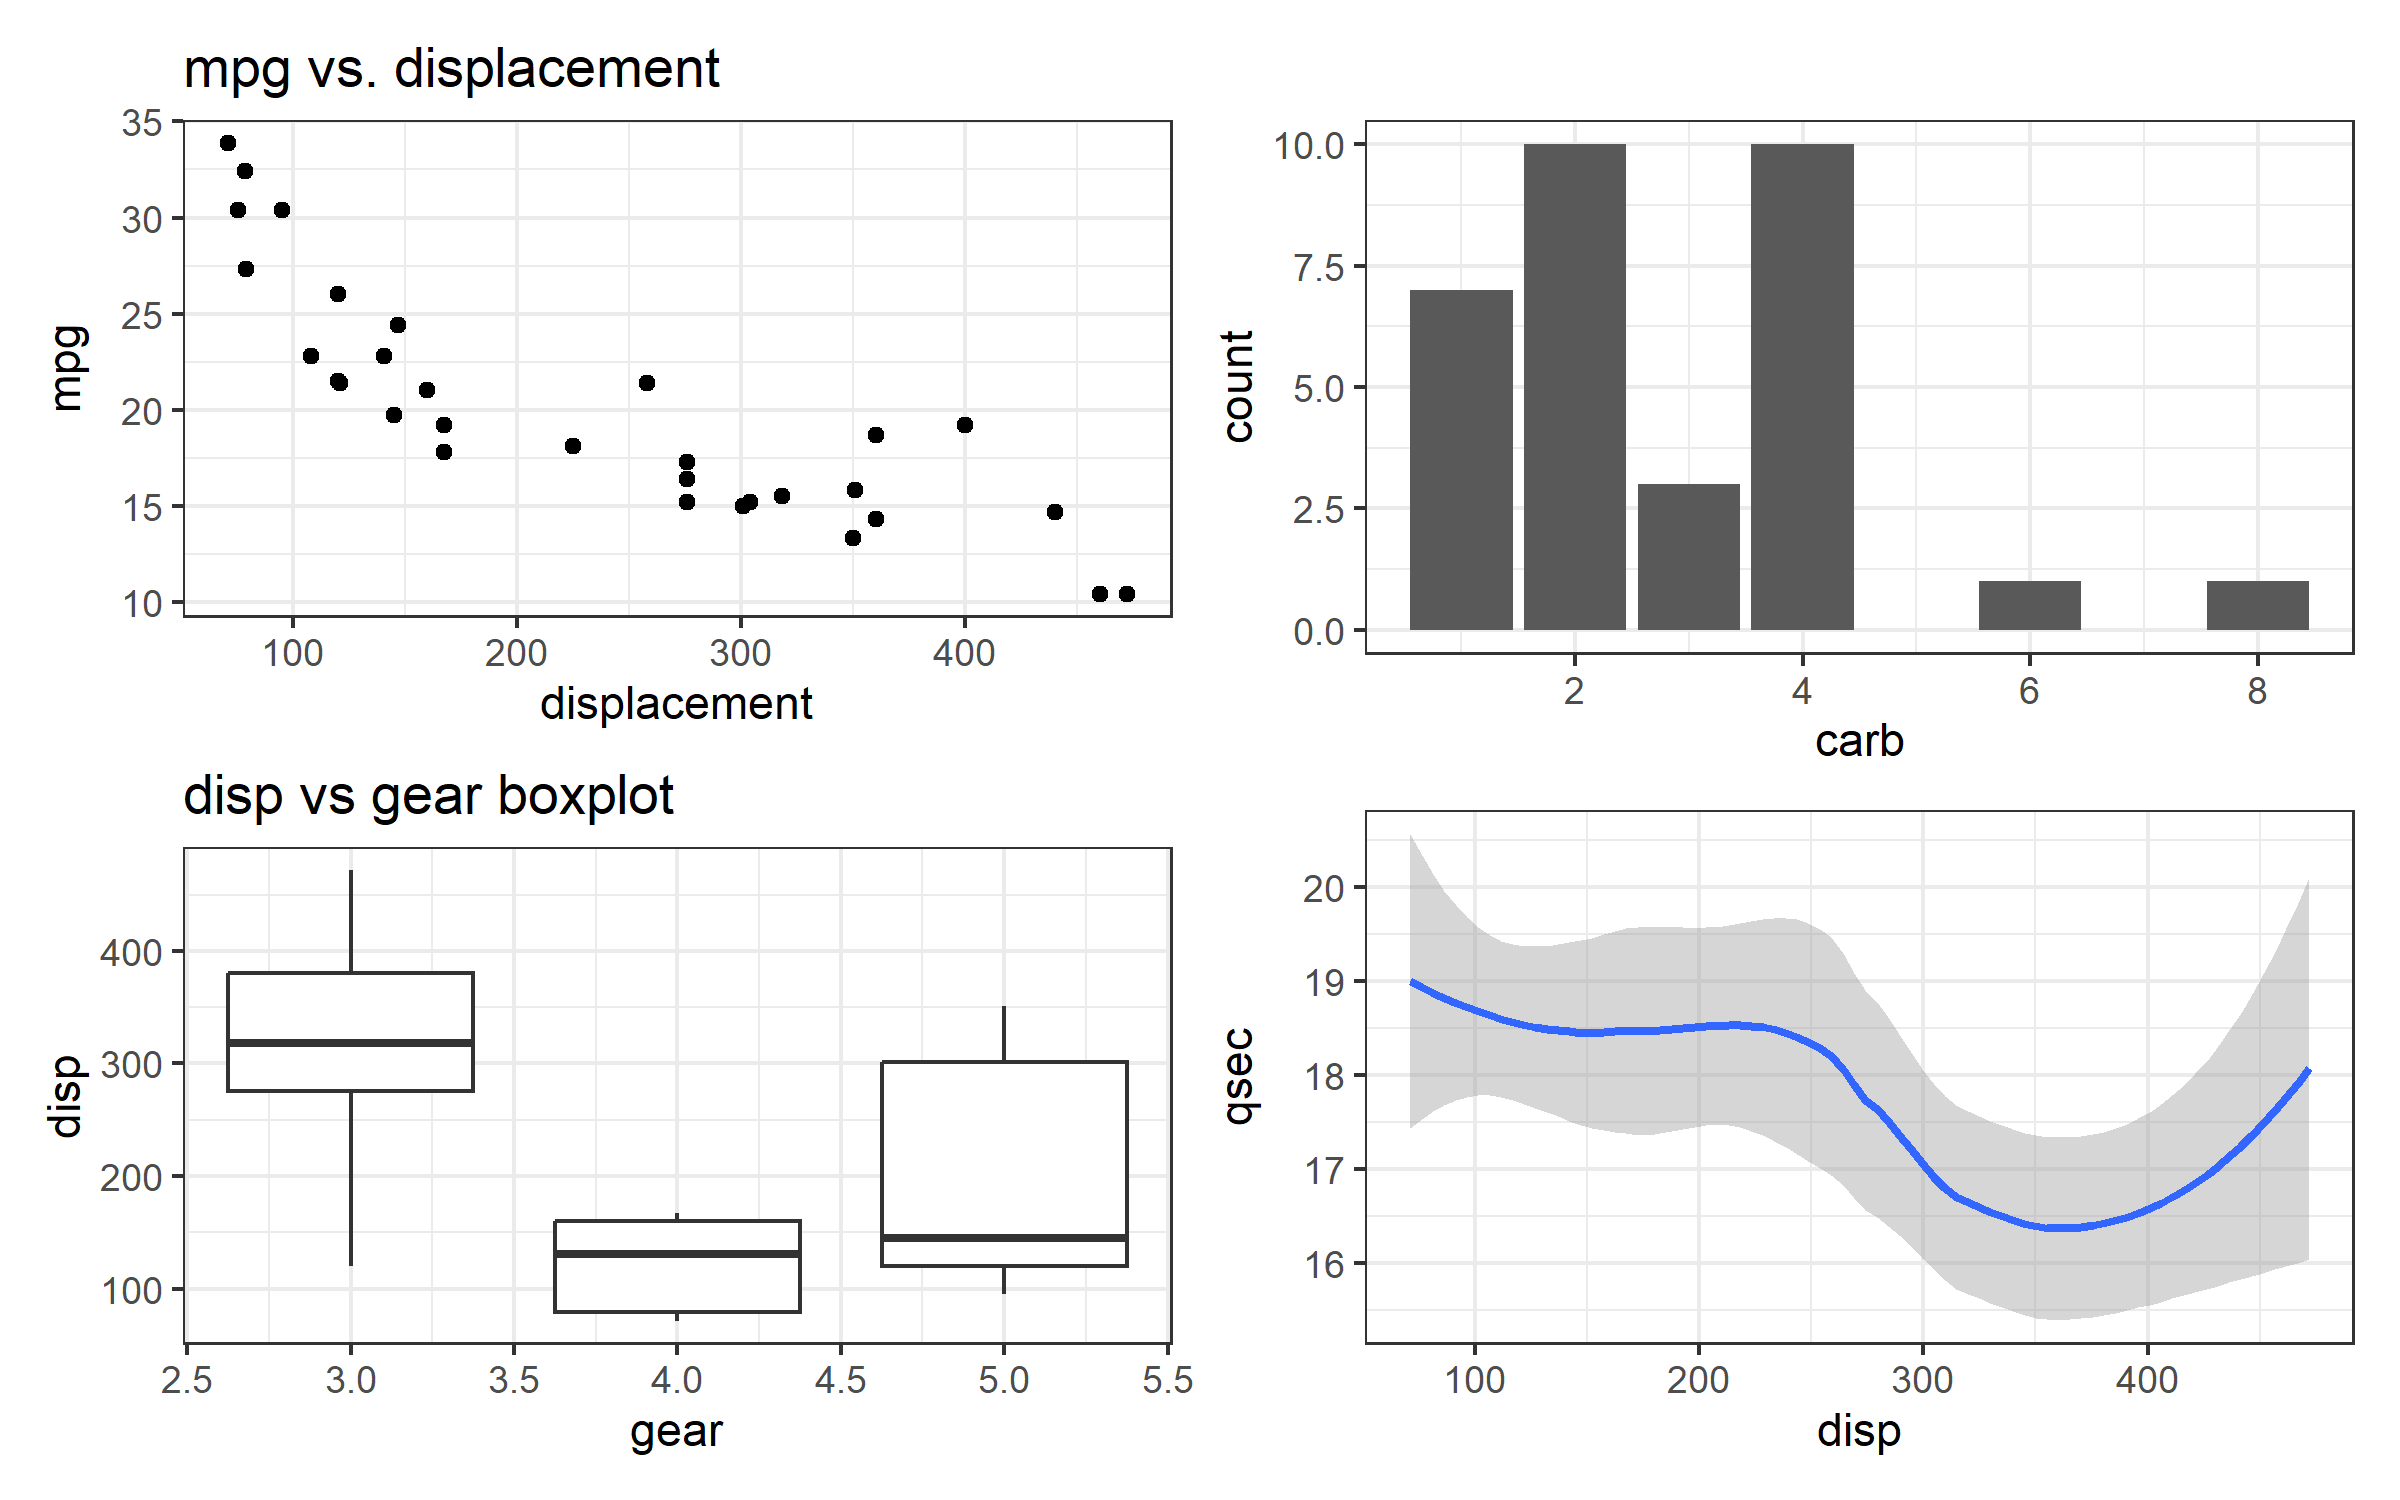
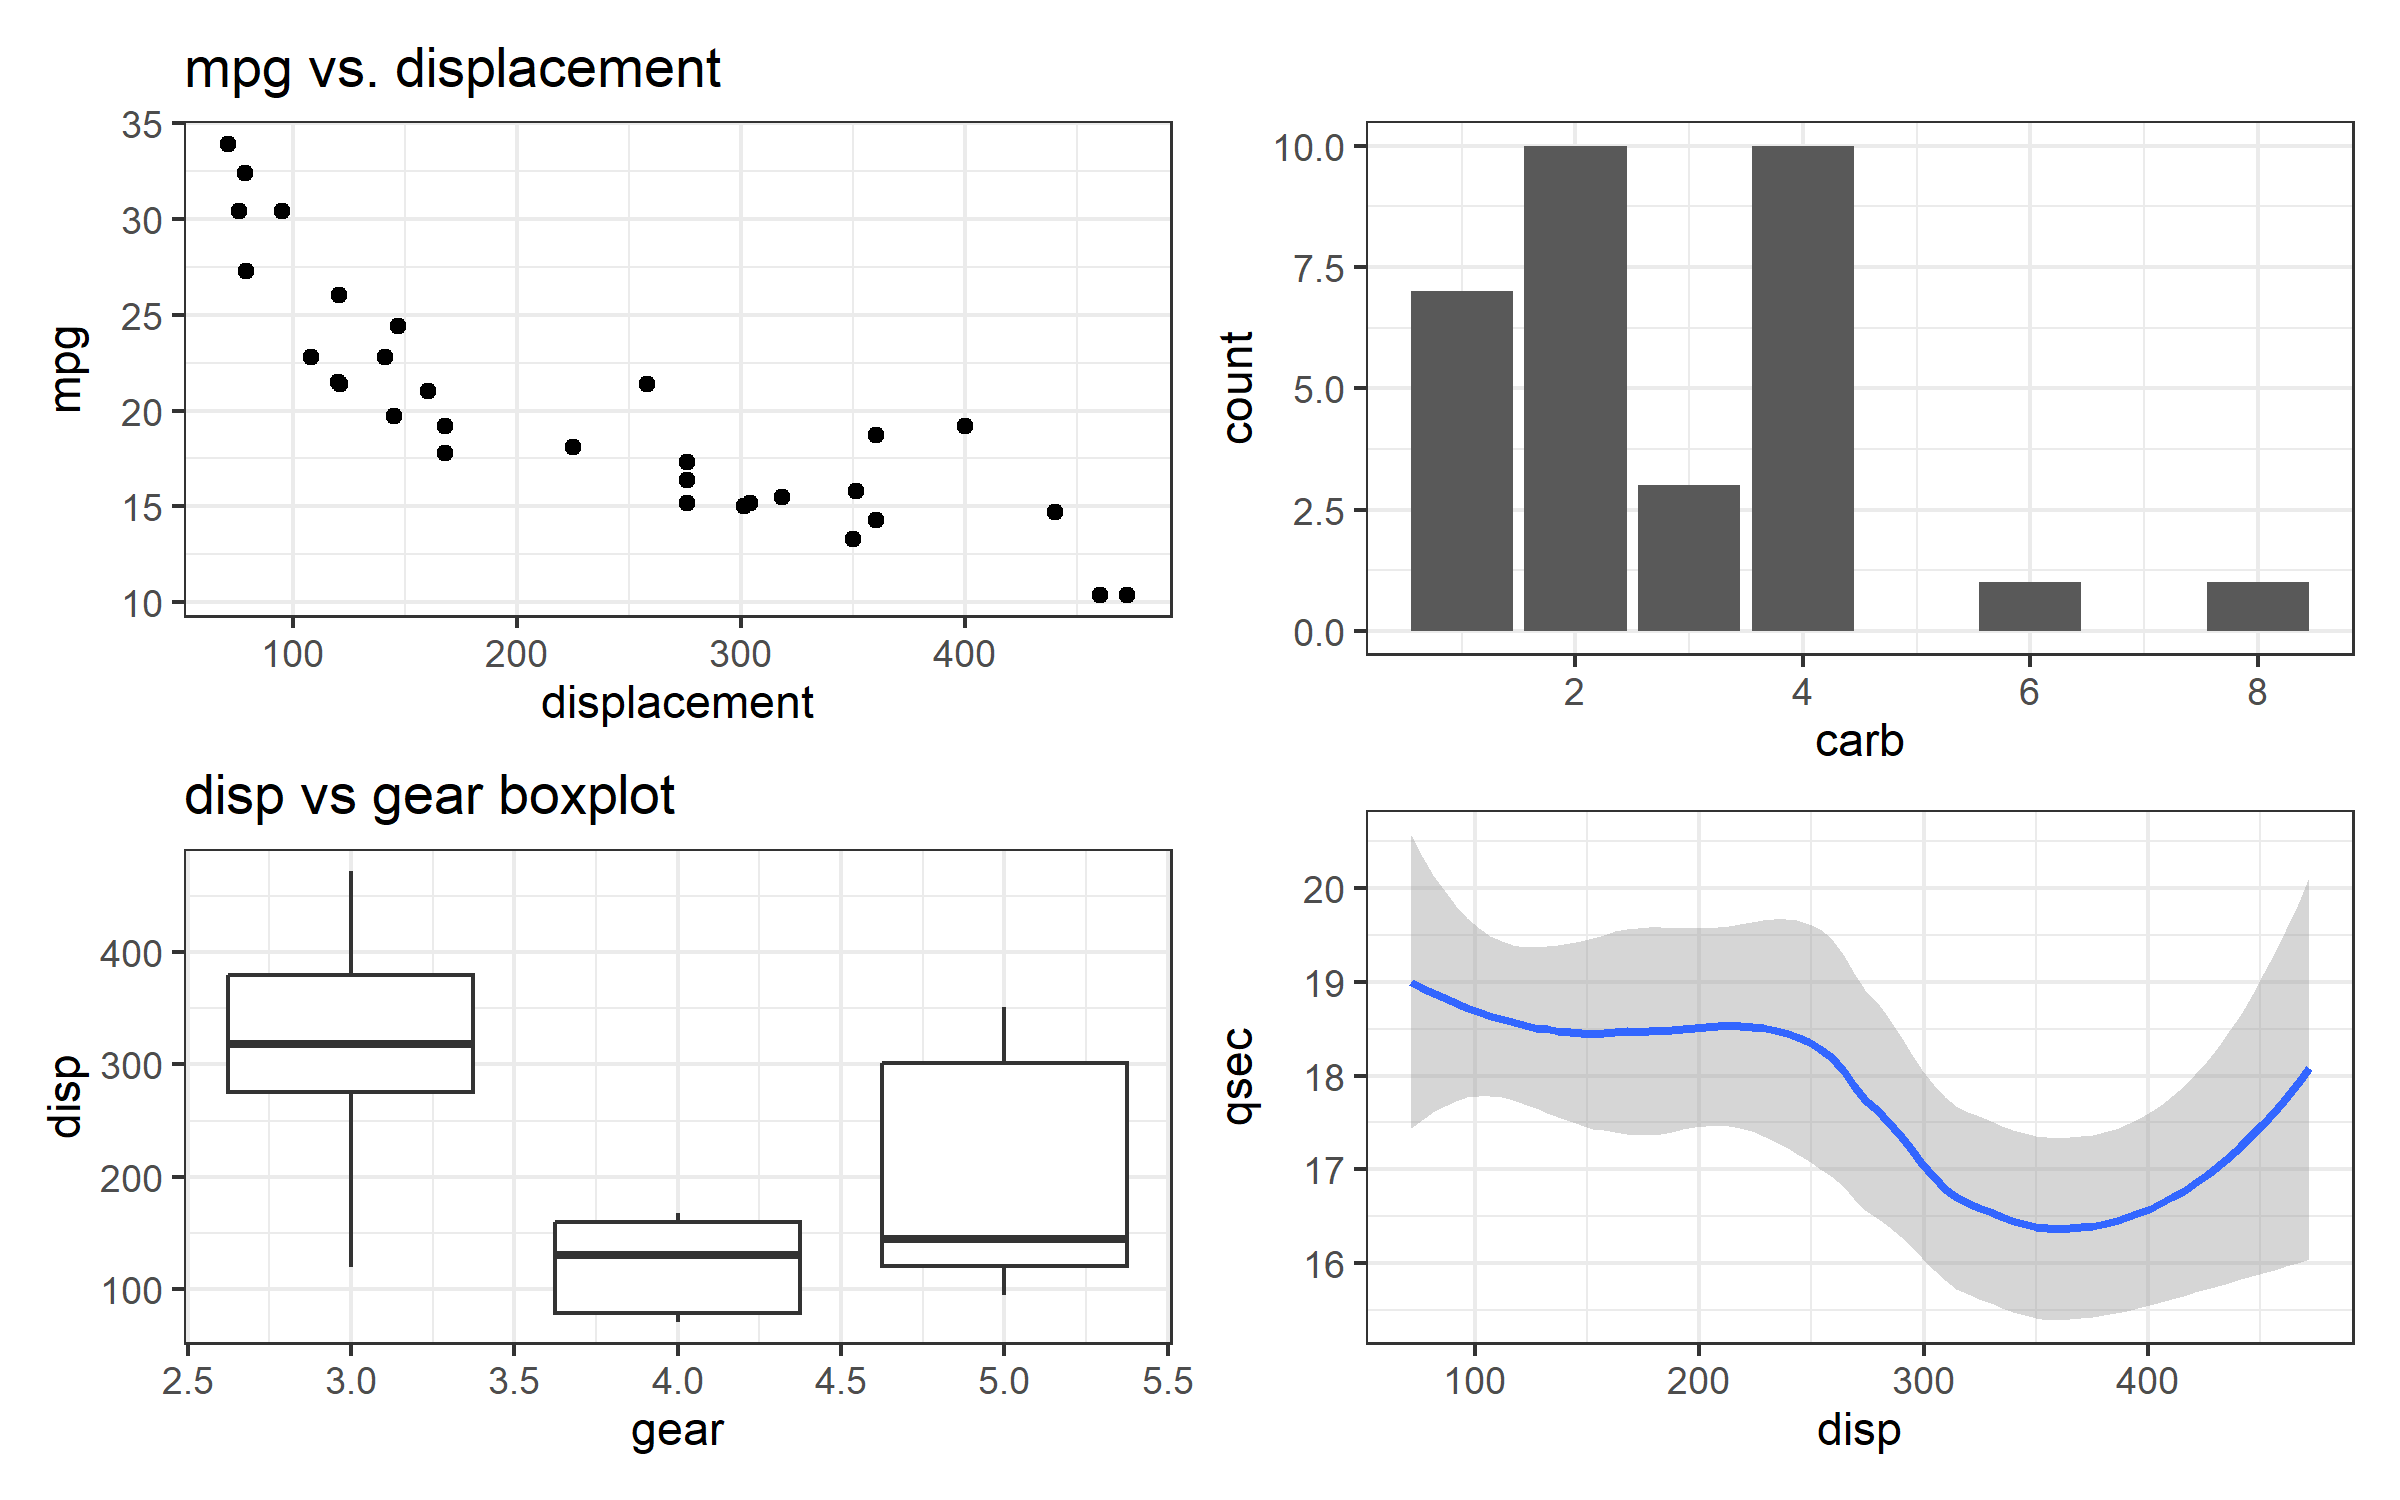
updated class05.md

diff --git a/class05/class05.md b/class05/class05.md
@@ -1,0 +1,298 @@
+# Data Viz with ggplot
+Jihyun In(PID: A16955363)
+
+- [Background](#background)
+- [Gene Expression Plot](#gene-expression-plot)
+  - [Custom Color Plot](#custom-color-plot)
+- [Using different geoms](#using-different-geoms)
+- [Econcomic status](#econcomic-status)
+
+# Background
+
+There ar eamny graphics systems available in R. These include “base” R
+and tons of add on packages like **ggplot2**
+
+Let’s compare “base” and **ggplot 2** briefly. We can use some example
+data that is built-in with R called `cars`:
+
+``` r
+head(cars)
+```
+
+      speed dist
+    1     4    2
+    2     4   10
+    3     7    4
+    4     7   22
+    5     8   16
+    6     9   10
+
+In base R I can just call `plot()`
+
+``` r
+plot(cars)
+```
+
+![](class05_files/figure-commonmark/unnamed-chunk-2-1.png)
+
+How can we do this with **ggplot2**
+
+First we need to install the package. We do this with
+`install.packages("ggplot2")`. I only need to do this once and then it
+will be available on my computer from then on.
+
+> Key point: I only install packages in the R console, not within quarto
+> docs or R scripts.
+
+Before I use any add-on package I must load it up wit ha call to
+`library()`
+
+``` r
+library(ggplot2)
+ggplot(cars)
+```
+
+![](class05_files/figure-commonmark/unnamed-chunk-3-1.png)
+
+Every ggplot has at least 3 things.
+
+- the **data** (in our case `cars`)
+- the **aes**thetics (how the data maps to the plot)
+- the **geom**s that determine how the plot is drawn(Lines, pots,
+  columns, etc. )
+
+``` r
+ggplot(cars)  + 
+  aes(x=speed, y=dist) + 
+  geom_point()
+```
+
+![](class05_files/figure-commonmark/unnamed-chunk-4-1.png)
+
+For “simple” plots ggplot is much more verbose than base R but the
+defaults are nicer and for complicated plots it becomes much more
+efficient and structured.
+
+> Q. dd a line to show the relationship of speed to dtopping distance
+> (i.e. add another “layer”)
+
+``` r
+p <- ggplot(cars) + 
+  aes(x = speed, y= dist) + 
+  geom_point() + 
+  geom_smooth(se=FALSE, method="lm")
+```
+
+I can always save any ggplot object (i.e. plot) and then use it later or
+adding more layers.
+
+``` r
+p + 
+  ggtitle(label="Distance vs Speed", subtitle="hi") + 
+  theme(plot.title = element_text(hjust = 0.5), plot.subtitle = element_text(hjust = 0.5))
+```
+
+    `geom_smooth()` using formula = 'y ~ x'
+
+![](class05_files/figure-commonmark/unnamed-chunk-6-1.png)
+
+> Q. Add a title and subtitle to the plot
+
+# Gene Expression Plot
+
+``` r
+url <- "https://bioboot.github.io/bimm143_S20/class-material/up_down_expression.txt"
+genes <- read.delim(url)
+head(genes,20)
+```
+
+             Gene Condition1 Condition2      State
+    1       A4GNT -3.6808610 -3.4401355 unchanging
+    2        AAAS  4.5479580  4.3864126 unchanging
+    3       AASDH  3.7190695  3.4787276 unchanging
+    4        AATF  5.0784720  5.0151916 unchanging
+    5        AATK  0.4711421  0.5598642 unchanging
+    6  AB015752.4 -3.6808610 -3.5921390 unchanging
+    7       ABCA7  3.4484220  3.8266509 unchanging
+    8   ABCA9-AS1 -3.6808610 -3.5921390 unchanging
+    9      ABCC11 -3.5288580 -1.8551732 unchanging
+    10      ABCC3  0.9305738  3.2603040         up
+    11      ABCC5  4.6004252  5.4994435         up
+    12  ABCC5-AS1 -3.6808610 -3.4401355 unchanging
+    13    ABCC6P1 -0.7215031 -0.2702107 unchanging
+    14      ABCD1  2.6805956  3.3800430 unchanging
+    15     ABHD11  4.4136560  3.9521816 unchanging
+    16     ABI3BP -1.2069298 -3.5921390 unchanging
+    17       ABL1  6.3583620  6.0814650 unchanging
+    18     ABLIM2 -1.9438953 -1.1182077 unchanging
+    19        ABO -3.6808610 -3.5921390 unchanging
+    20       ABP1 -3.6808610 -3.5921390 unchanging
+
+> Q. how many genes are in this wee dataset?
+
+``` r
+nrow(genes)
+```
+
+    [1] 5196
+
+> Q. How many columns are there?
+
+``` r
+ncol(genes)
+```
+
+    [1] 4
+
+> Q. What are the column names?
+
+``` r
+colnames(genes)
+```
+
+    [1] "Gene"       "Condition1" "Condition2" "State"     
+
+> Q. How many “up” and “down” regulated genes are there?
+
+``` r
+# how I did it
+# sum(genes$State == "up")
+# sum(genes$State == "down")
+
+# the better way
+table(genes$State)
+```
+
+
+          down unchanging         up 
+            72       4997        127 
+
+## Custom Color Plot
+
+> Q. Make a first plot of this data
+
+``` r
+ggplot(genes) + 
+  aes(x=Condition1, y=Condition2, col=State) +
+  scale_color_manual(values=c("red", "grey", "blue")) +
+  geom_point() + 
+  labs(title="Trial vs. Control Gene Expression", x="control (no drug)", y="Drug treated") +
+  theme_bw()
+```
+
+![](class05_files/figure-commonmark/unnamed-chunk-12-1.png)
+
+# Using different geoms
+
+Let’s plot some aspects of the in-built `mtcars` dataset.
+
+``` r
+head(mtcars)
+```
+
+                       mpg cyl disp  hp drat    wt  qsec vs am gear carb
+    Mazda RX4         21.0   6  160 110 3.90 2.620 16.46  0  1    4    4
+    Mazda RX4 Wag     21.0   6  160 110 3.90 2.875 17.02  0  1    4    4
+    Datsun 710        22.8   4  108  93 3.85 2.320 18.61  1  1    4    1
+    Hornet 4 Drive    21.4   6  258 110 3.08 3.215 19.44  1  0    3    1
+    Hornet Sportabout 18.7   8  360 175 3.15 3.440 17.02  0  0    3    2
+    Valiant           18.1   6  225 105 2.76 3.460 20.22  1  0    3    1
+
+> Q. scatter plot of `mpg` vs `displacement`
+
+``` r
+p1 <- ggplot(mtcars) + 
+  aes(x=disp, y=mpg) + 
+  geom_point() +
+  theme_bw() + 
+  labs(title = "mpg vs. displacement", x="displacement")
+```
+
+> Q. boxplot of `gear` vs `displacement`
+
+``` r
+  p2 <- ggplot(mtcars) + 
+  aes(gear, disp, group=gear)+ 
+  geom_boxplot() + 
+  theme_bw() + labs(title="disp vs gear boxplot")
+```
+
+> Q. barplot of `carb`
+
+``` r
+p3 <- ggplot(mtcars) + 
+  aes(carb) + 
+  geom_bar() + 
+  theme_bw()
+```
+
+> Q. Smooth of `qsec` vs. `disp`
+
+``` r
+p4 <- ggplot(mtcars) + 
+  aes(x=disp, y=qsec) + 
+  geom_smooth() + 
+  theme_bw()
+```
+
+I want to combine all these plots into one figure with multiple panels.
+We can use **patchwork** package to do this.
+
+``` r
+library(patchwork)
+
+(p1 / p2 | p3 / p4)
+```
+
+    `geom_smooth()` using method = 'loess' and formula = 'y ~ x'
+
+![](class05_files/figure-commonmark/unnamed-chunk-18-1.png)
+
+``` r
+ggsave(filename="my_figure.png",width=8, height=5)
+```
+
+    `geom_smooth()` using method = 'loess' and formula = 'y ~ x'
+
+# Econcomic status
+
+``` r
+# File location online
+url <- "https://raw.githubusercontent.com/jennybc/gapminder/master/inst/extdata/gapminder.tsv"
+
+gapminder <- read.delim(url)
+```
+
+And a wee peek
+
+``` r
+head(gapminder)
+```
+
+          country continent year lifeExp      pop gdpPercap
+    1 Afghanistan      Asia 1952  28.801  8425333  779.4453
+    2 Afghanistan      Asia 1957  30.332  9240934  820.8530
+    3 Afghanistan      Asia 1962  31.997 10267083  853.1007
+    4 Afghanistan      Asia 1967  34.020 11537966  836.1971
+    5 Afghanistan      Asia 1972  36.088 13079460  739.9811
+    6 Afghanistan      Asia 1977  38.438 14880372  786.1134
+
+> Q. How many countries are in this dataset?
+
+``` r
+length(table(gapminder$country))
+```
+
+    [1] 142
+
+> Q. Plot gdpPercap vs lifeExp colored by continent
+
+``` r
+ggplot(gapminder) + 
+  aes(x = gdpPercap, y=lifeExp, col=continent) + 
+  geom_point(alpha = 0.3) + 
+  facet_wrap(~continent) + 
+  theme_bw()
+```
+
+![](class05_files/figure-commonmark/unnamed-chunk-23-1.png)
